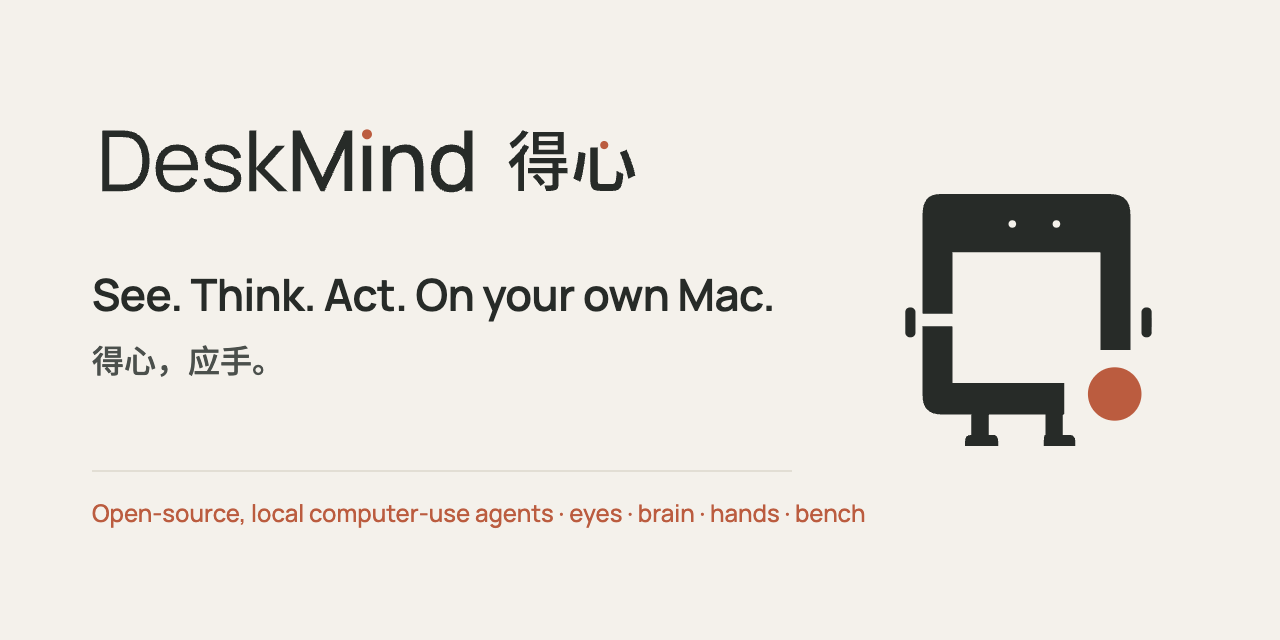
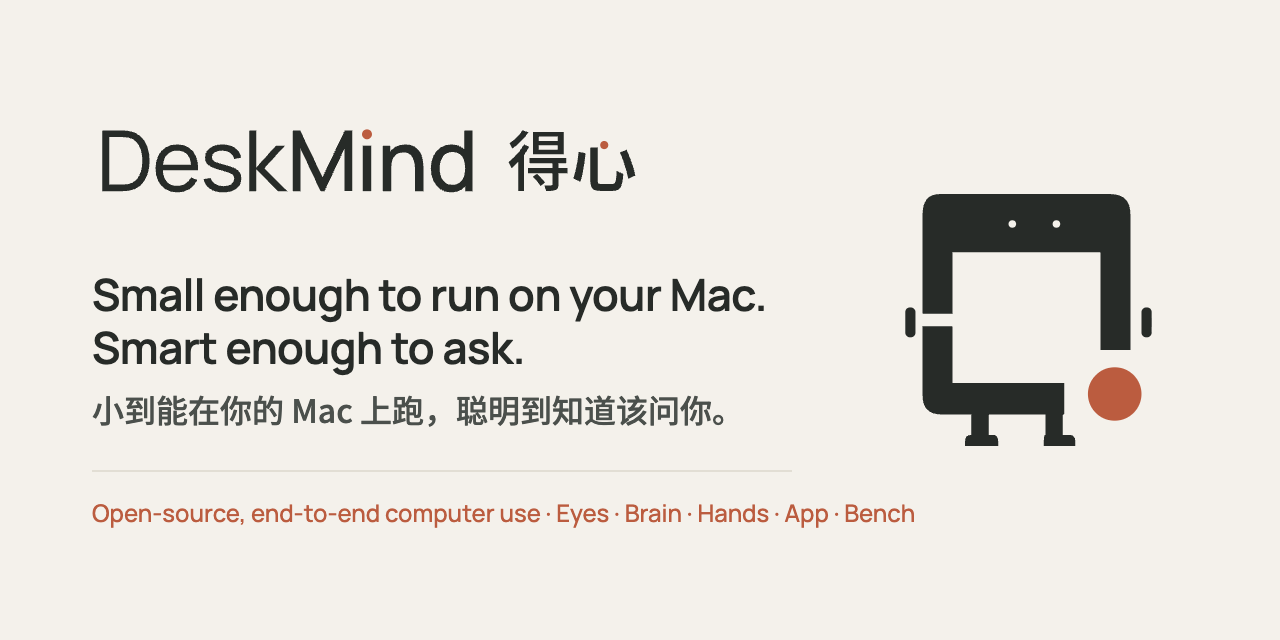
Social previews: the launch slogan on deskmind/.github/site, DeskMind 0.3.0 download on app, no 'calibrated' on brain, Eyes score marked GPU bf16
Claude-Session: https://claude.ai/code/session_011QBnqdtxikSXVbYE1gU4ND

Changed region(s): [[0.0625, 0.4375, 0.5938, 0.6875], [0.1875, 0.7812, 0.7188, 0.8438]]

diff --git a/brand/social/github/brain.html b/brand/social/github/brain.html
@@ -8,5 +8,5 @@
 .rule{position:absolute;left:92px;top:470px;width:700px;height:2px;background:#e3ded3}
 .sub{position:absolute;left:92px;top:496px;font-size:24px;font-weight:500;color:#C95536}
 .mascot{position:absolute;right:96px;top:150px;height:340px}</style></head>
-<body><div class="wrap"><img class="logo" src="../../family/brain-lockup-light.svg"><div class="en">Typed, calibrated step decisions for computer-use agents</div><div class="zh">每一步决策，都带可信的把握</div>
-<div class="rule"></div><div class="sub">39/39 on the real desktop · ~0.5 s / ~3.6 s a step · /v1/systemone</div><img class="mascot" src="../../xiaofang/think.svg"></div></body></html>
+<body><div class="wrap"><img class="logo" src="../../family/brain-lockup-light.svg"><div class="en">A probability for every option, a question when unsure</div><div class="zh">每个选项都给出概率，拿不准就先问</div>
+<div class="rule"></div><div class="sub">39/39 on the real desktop (bench v25) · 0.8B → 4B router · /v1/systemone</div><img class="mascot" src="../../xiaofang/think.svg"></div></body></html>

diff --git a/brand/social/github/app.html b/brand/social/github/app.html
@@ -8,5 +8,5 @@
 .rule{position:absolute;left:92px;top:470px;width:700px;height:2px;background:#e3ded3}
 .sub{position:absolute;left:92px;top:496px;font-size:24px;font-weight:500;color:#C95536}
 .mascot{position:absolute;right:96px;top:150px;height:340px}</style></head>
-<body><div class="wrap"><img class="logo" src="../../logo/bilingual-horizontal-light.svg"><div class="en">DeskMind for Mac</div><div class="zh">得心 Mac 版</div>
-<div class="rule"></div><div class="sub">A local computer-use agent that stays on your machine</div><img class="mascot" src="../../xiaofang/working.svg"></div></body></html>
+<body><div class="wrap"><img class="logo" src="../../logo/bilingual-horizontal-light.svg"><div class="en">DeskMind for Mac</div><div class="zh">DeskMind Mac 版：在你的 Mac 上替你操作电脑</div>
+<div class="rule"></div><div class="sub">Download 0.3.0 · macOS 15+ · Apple Silicon · signed and notarized</div><img class="mascot" src="../../xiaofang/working.svg"></div></body></html>

diff --git a/brand/social/github/dotgithub.html b/brand/social/github/dotgithub.html
@@ -9,4 +9,4 @@
 .sub{position:absolute;left:92px;top:496px;font-size:24px;font-weight:500;color:#C95536}
 .mascot{position:absolute;right:96px;top:150px;height:340px}</style></head>
 <body><div class="wrap"><img class="logo" src="../../logo/bilingual-horizontal-light.svg"><div class="en">Small enough to run on your Mac. Smart enough to ask.</div><div class="zh">小到能在你的 Mac 上跑，聪明到知道该问你。</div>
-<div class="rule"></div><div class="sub">Open-source, end-to-end computer use · Eyes · Brain · Hands · App · Bench</div><img class="mascot" src="../../xiaofang/idle.svg"></div></body></html>
+<div class="rule"></div><div class="sub">github.com/deskmind-ai · Eyes · Brain · Hands · App · Bench</div><img class="mascot" src="../../xiaofang/idle.svg"></div></body></html>

diff --git a/brand/social/github/site.html b/brand/social/github/site.html
@@ -9,4 +9,4 @@
 .sub{position:absolute;left:92px;top:496px;font-size:24px;font-weight:500;color:#C95536}
 .mascot{position:absolute;right:96px;top:150px;height:340px}</style></head>
 <body><div class="wrap"><img class="logo" src="../../logo/bilingual-horizontal-light.svg"><div class="en">Small enough to run on your Mac. Smart enough to ask.</div><div class="zh">小到能在你的 Mac 上跑，聪明到知道该问你。</div>
-<div class="rule"></div><div class="sub">Open-source, end-to-end computer use · Eyes · Brain · Hands · App · Bench</div><img class="mascot" src="../../xiaofang/idle.svg"></div></body></html>
+<div class="rule"></div><div class="sub">deskmind.dev · Download DeskMind for Mac</div><img class="mascot" src="../../xiaofang/idle.svg"></div></body></html>

diff --git a/brand/social/github/eyes.html b/brand/social/github/eyes.html
@@ -9,4 +9,4 @@
 .sub{position:absolute;left:92px;top:496px;font-size:24px;font-weight:500;color:#C95536}
 .mascot{position:absolute;right:96px;top:150px;height:340px}</style></head>
 <body><div class="wrap"><img class="logo" src="../../family/eyes-lockup-light.svg"><div class="en">Find the target on a screenshot</div><div class="zh">在截图里找到要操作的目标</div>
-<div class="rule"></div><div class="sub">Eyes-4B · 67.7 on ScreenSpot-Pro · local MLX</div><img class="mascot" src="../../xiaofang/notice.svg"></div></body></html>
+<div class="rule"></div><div class="sub">Eyes-4B · 67.7 on ScreenSpot-Pro (GPU, bf16) · 4-bit MLX for the Mac</div><img class="mascot" src="../../xiaofang/notice.svg"></div></body></html>
